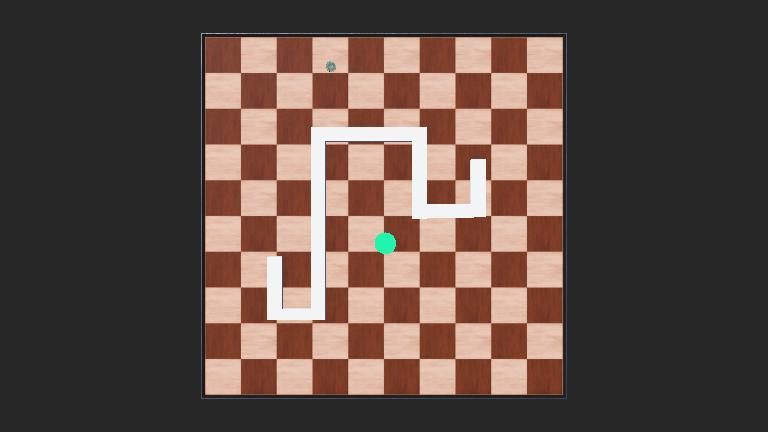
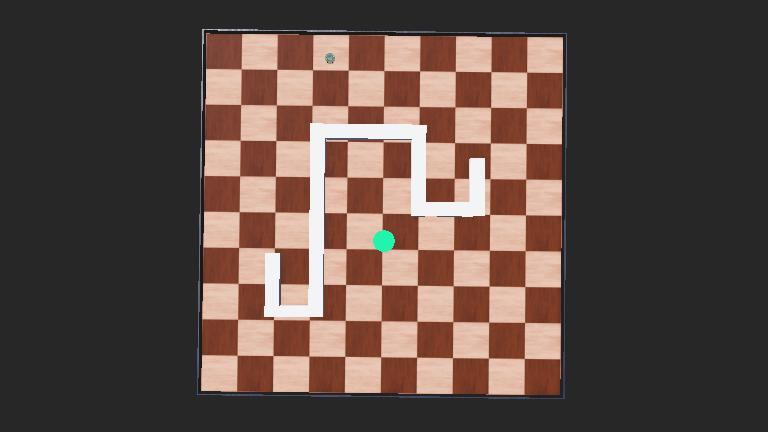
push from edits

Changed region(s): [[0.25, 0.2407, 0.75, 0.9329], [0.25, 0.0602, 0.6875, 0.2106], [0.625, 0.1505, 0.6562, 0.1806]]

diff --git a/Controllers/altcombo/altcombo.py b/Controllers/altcombo/altcombo.py
@@ -38,8 +38,8 @@ def is_open(yaw, atg, right, left, front, left_back, right_back):
     print("Front Wall: ", front)
     print("yaw = ", yaw)
     print("atg = ", atg)
-    normalized_right = yaw - 90
-    normalized_left = yaw + 90
+    normalized_right = yaw - 80
+    normalized_left = yaw + 80
     normalized_frontone = yaw - 15
     normalized_fronttwo = yaw + 15
     if normalized_left > 360:
@@ -71,36 +71,28 @@ def is_open(yaw, atg, right, left, front, left_back, right_back):
     #print("Both left: ", (left_angle[0] > left_angle[1]) and (atg >= (left_angle[0]) and atg <= left_angle[1]+360))
 
     if front == False:
-        #print("in front")
+        print("in front")
         if (atg >= front_angle[0] and atg <= front_angle[1]):
-            #print("Normal angle open in Front")
+            print("Normal angle open in Front")
             return True      
         if (front_angle[0] > front_angle[1]) and (atg >= (front_angle[0]-360) and atg <= front_angle[1]):
-            #print("Angle in overlap open in front")
+            print("Angle in overlap open in front")
             return True
     if right == False:
-        #print("in right")
+        print("in right")
         if (atg >= right_angle[0] and atg <= right_angle[1]):
-            # print("Right open")
-            if right_back == True:
-                return False
+            print("Right open")
             return True
         if (right_angle[0] > right_angle[1]) and (atg >= (right_angle[0]-360) and atg <= right_angle[1]):
-            #print("Angle in overlap within right")
-            if right_back == True:
-                return False
+            print("Angle in overlap within right")
             return True
     if left == False:
         print("in left")
         if (atg >= left_angle[0] and atg < left_angle[1]):
-            # print("Left Open")
-            if left_back == True: 
-                return False
+            print("Left Open")
             return True
         if (left_angle[0] > left_angle[1]) and (atg >= (left_angle[0]) and atg <= left_angle[1]+360):
             print("Angle in overlap within left")
-            if left_back == True:
-                return False
             return True
         
     # print("Not Open")
@@ -187,14 +179,14 @@ if __name__ == "__main__":
         elif state == 'wall_following':
             print("Running wall following")
             #calculate the if a wall is on the left, right or front of the robot
-            left_wall = ((left_ir_values[0] + left_ir_values[1]) /2) > 80
-            front_wall = ((front_ir_values[0] + front_ir_values[1]) / 2) > 80
-            right_wall = ((right_ir_values[0] + right_ir_values[1]) /2) > 80
+            left_wall = ((left_ir_values[0] + left_ir_values[1]) /2) > 75
+            front_wall = ((front_ir_values[0] + front_ir_values[1]) / 2) > 75
+            right_wall = ((right_ir_values[0] + right_ir_values[1]) /2) > 75
             left_back = left_back_ir_values > 80
             right_back = right_back_ir_values > 80
-            #print("Left wall: ", left_wall)
-            #print("Front wall: ", front_wall)
-            #print("Right wall: ", right_wall)
+            print("Left wall: ", left_ir_values[0], " and ", left_ir_values[1])
+            print("Front wall: ", front_ir_values[0], " and ", front_ir_values[1])
+            print("Right wall: ", right_ir_values[0], " and ", right_ir_values[1])
 
             #calculate angle to goal
             angle_to_goal = calculate_target_angle(gps_values, goal_pos)
@@ -274,9 +266,9 @@ if __name__ == "__main__":
             else:
                 print("Running else")
                 if turn_direction == 'CW':
-                    update_motor_speed(input_omega=[robot_speed, robot_speed/10])
+                    update_motor_speed(input_omega=[robot_speed, robot_speed/2])
                 elif turn_direction == 'CCW':
-                    update_motor_speed(input_omega=[robot_speed/10, robot_speed])                # print("Prev Changed 2")
+                    update_motor_speed(input_omega=[robot_speed/2, robot_speed])                # print("Prev Changed 2")
                 prev = state
 
 
